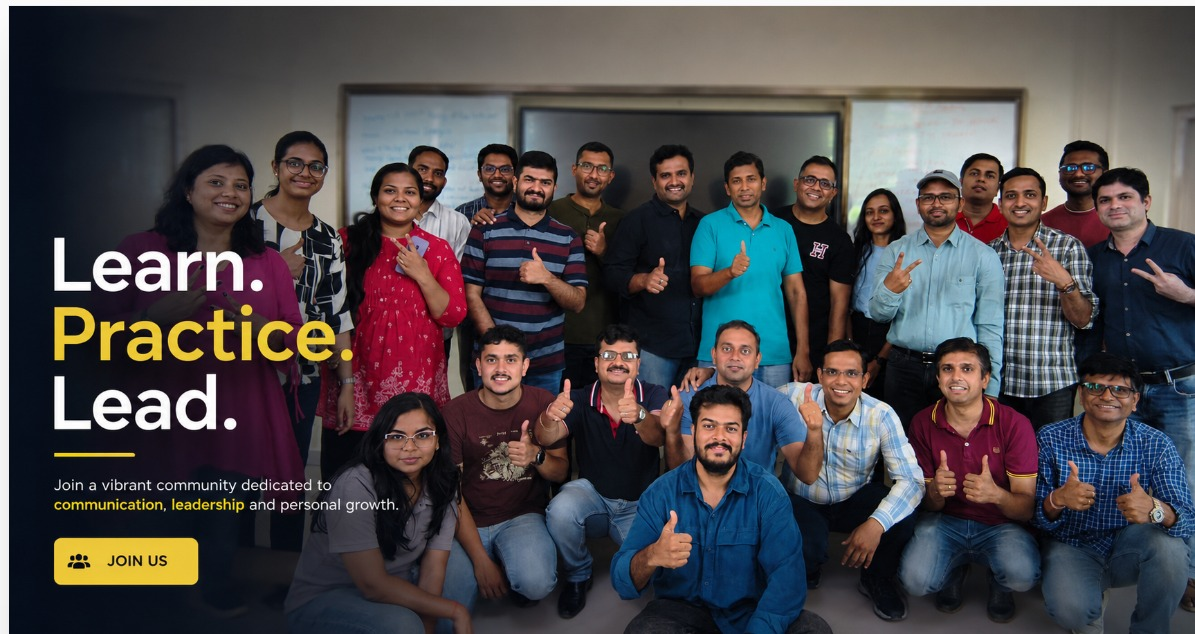
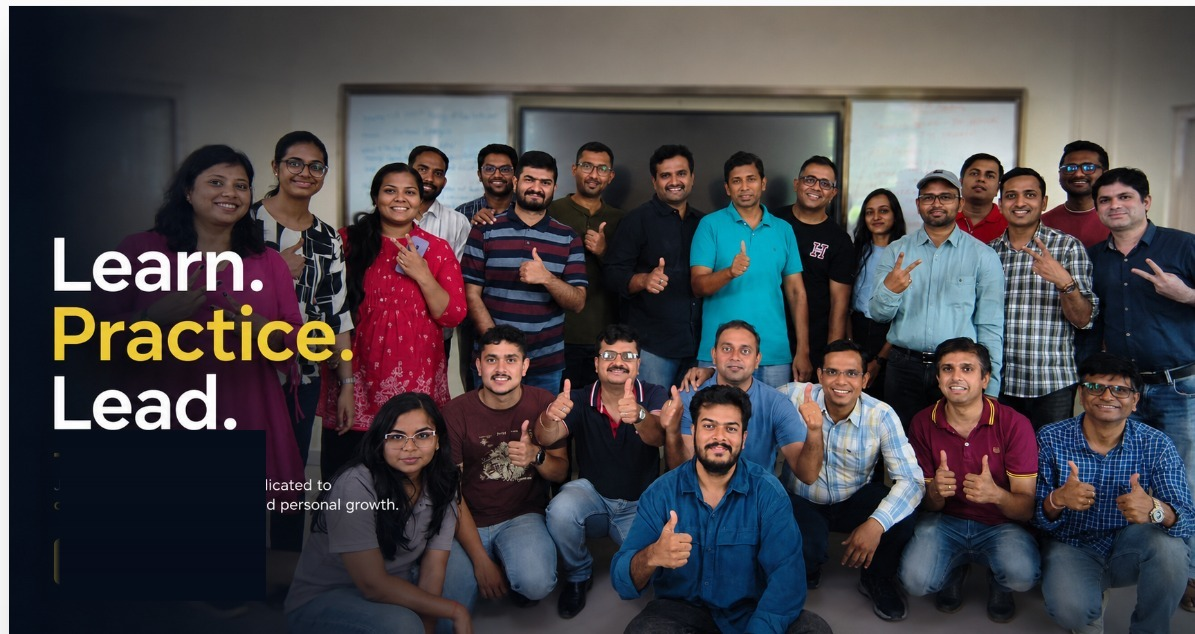
fixes

Changed region(s): [[0.031, 0.6593, 0.2477, 0.8691], [0.031, 0.8391, 0.1858, 0.929]]

diff --git a/assets/portal.js b/assets/portal.js
@@ -4190,4 +4190,19 @@
   initMentorRating();
   initMyRecognition();
   initVPETabs();
+
+  // Hide the WordPress page title (rendered by the theme above our portal shortcode)
+  // and strip the theme's content-area top padding so the topbar starts flush.
+  document.addEventListener('DOMContentLoaded', () => {
+    if (!document.querySelector('.tmp-portal')) return;
+    const titleEl = document.querySelector(
+      '.entry-title, .page-title, h1.post-title, h1.wp-block-post-title, .wp-block-post-title'
+    );
+    if (titleEl) titleEl.style.display = 'none';
+    // Remove top padding from common theme content wrappers
+    const contentWrap = document.querySelector(
+      '.entry-content, .page-content, .wp-block-post-content, article.page'
+    );
+    if (contentWrap) contentWrap.style.paddingTop = '0';
+  });
 })();

diff --git a/assets/portal.css b/assets/portal.css
@@ -9,6 +9,7 @@
   --tmp-gold: #d69b24;
   color: var(--tmp-ink);
   font-family: Inter, ui-sans-serif, system-ui, -apple-system, BlinkMacSystemFont, "Segoe UI", sans-serif;
+  margin-top: -12px;
 }
 
 .tmp-portal *,

diff --git a/Frontend/functions.php b/Frontend/functions.php
@@ -1,0 +1,65 @@
+<?php
+/**
+ * Child Theme Functions
+ *
+ * Copy this file into your active child theme folder (same folder as
+ * page-toastmasters-portal.php). If a functions.php already exists there,
+ * paste the code below into it instead of overwriting.
+ */
+
+if (!defined('ABSPATH')) {
+    exit;
+}
+
+// ── Strip WordPress junk from <head> ──────────────────────────────────────────
+
+add_action('init', function () {
+    // WordPress version meta tag  (<meta name="generator" content="WordPress X.X">)
+    remove_action('wp_head', 'wp_generator');
+
+    // EditURI / RSD link  (<link rel="EditURI" ...>)
+    remove_action('wp_head', 'rsd_link');
+
+    // Windows Live Writer manifest  (<link rel="wlwmanifest" ...>)
+    remove_action('wp_head', 'wlwmanifest_link');
+
+    // Shortlink  (<link rel="shortlink" ...>)
+    remove_action('wp_head', 'wp_shortlink_wp_head', 10);
+
+    // REST API discovery link  (<link rel="https://api.w.org/" ...>)
+    remove_action('wp_head', 'rest_output_link_wp_head', 10);
+
+    // oEmbed discovery links and JS
+    remove_action('wp_head', 'wp_oembed_add_discovery_links');
+    remove_action('wp_head', 'wp_oembed_add_host_js');
+
+    // RSS feed links
+    remove_action('wp_head', 'feed_links', 2);
+    remove_action('wp_head', 'feed_links_extra', 3);
+
+    // Prev/next post rel links (irrelevant on a single page site)
+    remove_action('wp_head', 'adjacent_posts_rel_link_wp_head', 10);
+
+    // Emoji detection script and styles
+    remove_action('wp_head',         'print_emoji_detection_script', 7);
+    remove_action('wp_print_styles', 'print_emoji_styles');
+    remove_filter('the_content_feed', 'wp_staticize_emoji');
+    remove_filter('comment_text_rss', 'wp_staticize_emoji');
+    remove_filter('wp_mail',          'wp_staticize_emoji_for_email');
+});
+
+// ── Strip REST API link from HTTP response headers ────────────────────────────
+remove_action('template_redirect', 'rest_output_link_header', 11, 0);
+
+// ── Hide the admin toolbar on the front end ───────────────────────────────────
+// Editors/admins still see it inside wp-admin; it just won't float over the site.
+add_filter('show_admin_bar', '__return_false');
+
+// ── Remove WP's auto-injected block / classic-editor styles ──────────────────
+// These are only needed if you use the Gutenberg editor on this page; you don't.
+add_action('wp_enqueue_scripts', function () {
+    wp_dequeue_style('wp-block-library');
+    wp_dequeue_style('wp-block-library-theme');
+    wp_dequeue_style('classic-theme-styles');
+    wp_dequeue_style('global-styles');
+}, 100);

diff --git a/includes/class-tmp-rest-api.php b/includes/class-tmp-rest-api.php
@@ -732,7 +732,7 @@ class TMP_REST_API {
                 'pathway'           => $parsed['pathway'],
                 'level'             => $parsed['level'],
                 'level_completed'   => $parsed['level_completed'],
-                'state'             => self::csv_value($row, $indexes, 'Status (*)') ?: 'Active',
+                'state'             => self::normalize_member_state(self::csv_value($row, $indexes, 'Status (*)')),
                 'paid_until'        => self::normalize_date(self::csv_value($row, $indexes, 'Paid Until')),
                 'pathways_enrolled' => $pathways_enrolled,
             ]);
@@ -1050,6 +1050,20 @@ class TMP_REST_API {
         // If level N is completed, member is working on level N+1 (or stays at N if already at max)
         $working_level = min($completed + 1, 5);
         return ['pathway' => $pathway, 'level' => $working_level, 'level_completed' => $completed];
+    }
+
+    private static function normalize_member_state($ti_state) {
+        // Only map values confirmed to exist in TI CSV exports for this club.
+        // Add entries here if a new TI status appears in a future import.
+        $map = [
+            'paidmember'   => 'Active',
+            'unpaidmember' => 'Inactive',
+            'active'       => 'Active',   // manually-added members
+            'inactive'     => 'Inactive', // manually-added members
+            'resigned'     => 'Resigned', // manually-added members
+        ];
+        $key = strtolower(trim((string) $ti_state));
+        return $map[$key] ?? ($ti_state ?: 'Active');
     }
 
     private static function normalize_date($value) {

diff --git a/includes/class-tmp-activator.php b/includes/class-tmp-activator.php
@@ -16,6 +16,7 @@ class TMP_Activator {
         self::migrate_v120_pathway_tables();
         self::migrate_v130_level_completed();
         self::migrate_v132_enforce_level_invariant();
+        self::migrate_v133_normalize_states();
         update_option('tmp_plugin_version', TMP_VERSION);
         if (!get_option('tmp_role_cooloff_weeks')) {
             update_option('tmp_role_cooloff_weeks', 4);
@@ -50,6 +51,7 @@ class TMP_Activator {
         self::migrate_v120_pathway_tables();
         self::migrate_v130_level_completed();
         self::migrate_v132_enforce_level_invariant();
+        self::migrate_v133_normalize_states();
         if (!get_option('tmp_role_cooloff_weeks')) {
             update_option('tmp_role_cooloff_weeks', 4);
         }
@@ -561,6 +563,15 @@ class TMP_Activator {
 
         // Enforce: level is always min(level_completed + 1, 5) but at least 1
         $wpdb->query("UPDATE {$members} SET level = GREATEST(LEAST(level_completed + 1, 5), 1)");
+    }
+
+    private static function migrate_v133_normalize_states() {
+        global $wpdb;
+        $members = $wpdb->prefix . 'tmp_members';
+
+        // TI CSV exports 'PaidMember' and 'UnpaidMember'. Normalise to internal values.
+        $wpdb->query("UPDATE {$members} SET state = 'Active'   WHERE state = 'PaidMember'");
+        $wpdb->query("UPDATE {$members} SET state = 'Inactive' WHERE state = 'UnpaidMember'");
     }
 
     private static function seed_data() {

diff --git a/Frontend/page-toastmasters-portal.php b/Frontend/page-toastmasters-portal.php
@@ -40,16 +40,8 @@ $diversity_leaders = [];
 if (class_exists('TMP_Repository')) {
     $all_members = TMP_Repository::members();
 
-    $today_str = gmdate('Y-m-d');
-    $active_members = array_filter($all_members, function ($m) use ($today_str) {
-        return strtolower($m['state'] ?? '') === 'active'
-            && (
-                !empty($m['is_exempt_from_unpaid_block'])
-                || empty($m['paid_until'])
-                || $m['paid_until'] >= $today_str
-            );
-    });
-    $active_count = count($active_members);
+    $active_members = array_filter($all_members, fn($m) => !empty($m['is_eligible']));
+    $active_count   = count($active_members);
 
     foreach ($active_members as $m) {
         $l = max(0, min(5, (int) ($m['level_completed'] ?? 0)));

diff --git a/includes/class-tmp-shortcodes.php b/includes/class-tmp-shortcodes.php
@@ -405,11 +405,6 @@ class TMP_Shortcodes {
         ?>
         <div class="tmp-portal" data-tmp-vpe>
             <?php echo self::portal_topbar(); ?>
-            <div class="tmp-panel">
-                <p class="tmp-eyebrow">VP Education</p>
-                <h2>Schedule roles, speeches, and meeting agendas</h2>
-                <p>Create meetings, assign roles, add speech titles, and publish a usable agenda view.</p>
-            </div>
 
             <!-- Tab navigation -->
             <nav class="tmp-tab-nav" data-tmp-tab-nav>

diff --git a/toastmasters-portal.php b/toastmasters-portal.php
@@ -14,7 +14,7 @@ if (!defined('ABSPATH')) {
 define('TMP_PLUGIN_FILE', __FILE__);
 define('TMP_PLUGIN_DIR', plugin_dir_path(__FILE__));
 define('TMP_PLUGIN_URL', plugin_dir_url(__FILE__));
-define('TMP_VERSION', '0.13.2');
+define('TMP_VERSION', '0.13.3');
 
 require_once TMP_PLUGIN_DIR . 'includes/class-tmp-activator.php';
 require_once TMP_PLUGIN_DIR . 'includes/class-tmp-repository.php';
